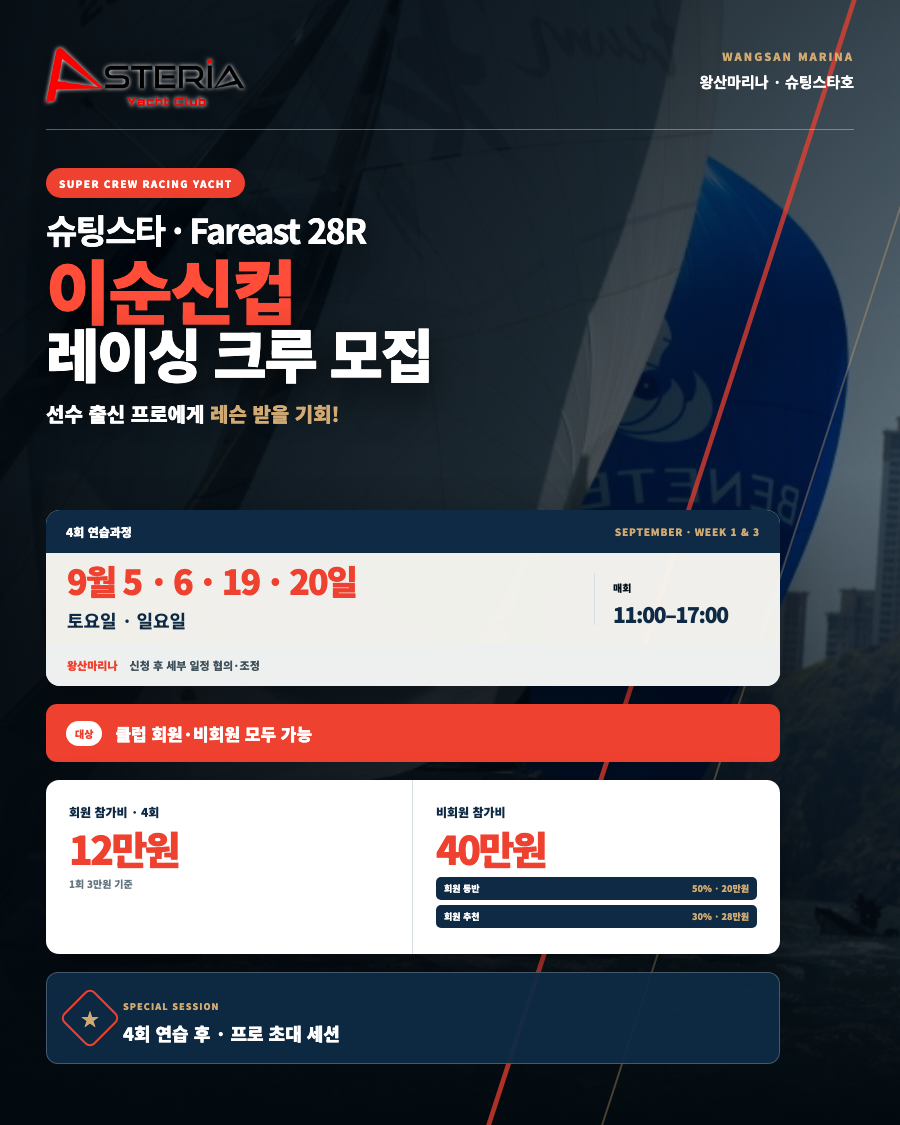
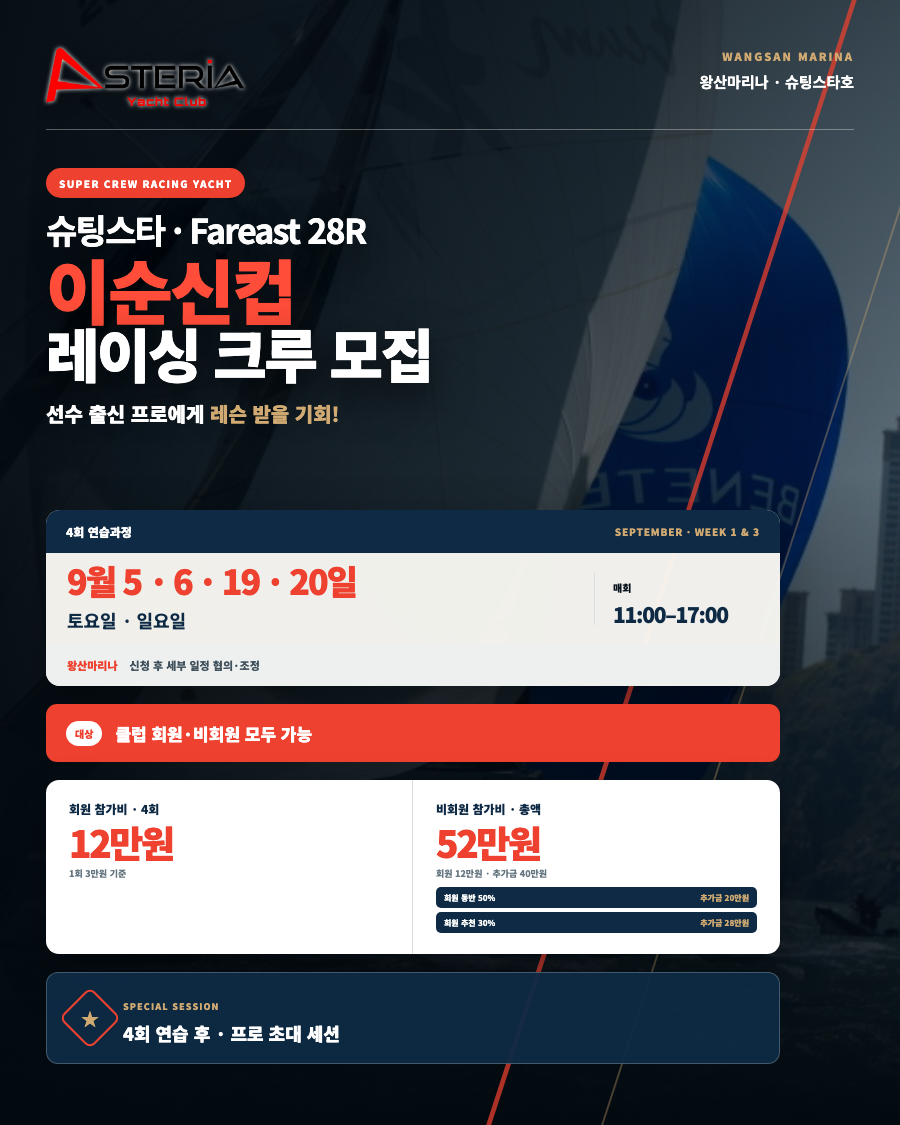
fix: clarify non-member racing fee total
Show the 520,000 KRW total as the 120,000 KRW base fee plus a
400,000 KRW non-member surcharge, and refresh the campaign popup.

Changed region(s): [[0.4667, 0.7156, 0.84, 0.84], [0.0622, 0.7156, 0.2178, 0.8089]]

diff --git a/racing-crew/index.html b/racing-crew/index.html
@@ -119,7 +119,7 @@ h1 b{display:block;color:#ff4d39}
  </div></section>
  <section class="info" aria-labelledby="feeTitle"><div class="section-head"><div><small>ENTRY & FEE</small><h2 id="feeTitle">대상과 참가비</h2></div><p>통영 대회 등을 고려해 신청 후 세부 일정을 협의·조정합니다.</p></div>
   <div class="audience"><small>대상</small><strong>클럽 회원·비회원 모두 가능</strong></div>
-  <div class="pricing"><div class="price"><small>회원 참가비 · 4회</small><b>12만원</b><span>1회 3만원 기준</span></div><div class="price"><small>비회원 참가비</small><b>40만원</b><span>1인 기준</span><div class="discount-list"><div class="discount">회원 동반 <strong>50% · 20만원</strong></div><div class="discount">회원 추천 <strong>30% · 28만원</strong></div></div></div></div>
+  <div class="pricing"><div class="price"><small>회원 참가비 · 4회</small><b>12만원</b><span>1회 3만원 기준</span></div><div class="price"><small>비회원 참가비 · 총액</small><b>52만원</b><span>회원 참가비 12만원 · 비회원 추가금 40만원</span><div class="discount-list"><div class="discount">회원 동반 50% <strong>추가금 20만원</strong></div><div class="discount">회원 추천 30% <strong>추가금 28만원</strong></div></div></div></div>
   <div class="ops"><div><small>SCHEDULE</small><strong>통영 대회 등을 고려해<br>신청 후 협의·조정</strong></div><div><small>INCLUDED</small><strong>점심·간식·음료,<br>저녁 1만5천원·유류비</strong></div><div><small>WEATHER</small><strong>풍랑주의보 등 기상 악화 시<br>안전을 위해 일정 조정</strong></div></div>
   <section class="contact-card" id="contact" aria-labelledby="contactTitle"><div><small>ENTRY CONTACT</small><h2 id="contactTitle">참가 희망</h2><div class="contact-person"><strong>연락: 조윤호 사무국장</strong><a class="contact-phone" href="tel:+821046587094">01046587094</a></div></div><div class="contact-actions"><a class="contact-action primary" href="tel:+821046587094">전화하기</a><a class="contact-action" href="sms:+821046587094">문자 보내기</a></div></section>
  </section>

diff --git a/index.html b/index.html
@@ -543,7 +543,7 @@
 <script>
   const racingPromo = document.getElementById('racingPromo');
   const racingPromoClose = document.getElementById('racingPromoClose');
-  const racingPromoSessionKey = 'asteria-racing-crew-promo-2026-09-v2';
+  const racingPromoSessionKey = 'asteria-racing-crew-promo-2026-09-v3';
   function openRacingPromo(){
     racingPromo?.classList.add('open');
     racingPromo?.setAttribute('aria-hidden','false');
